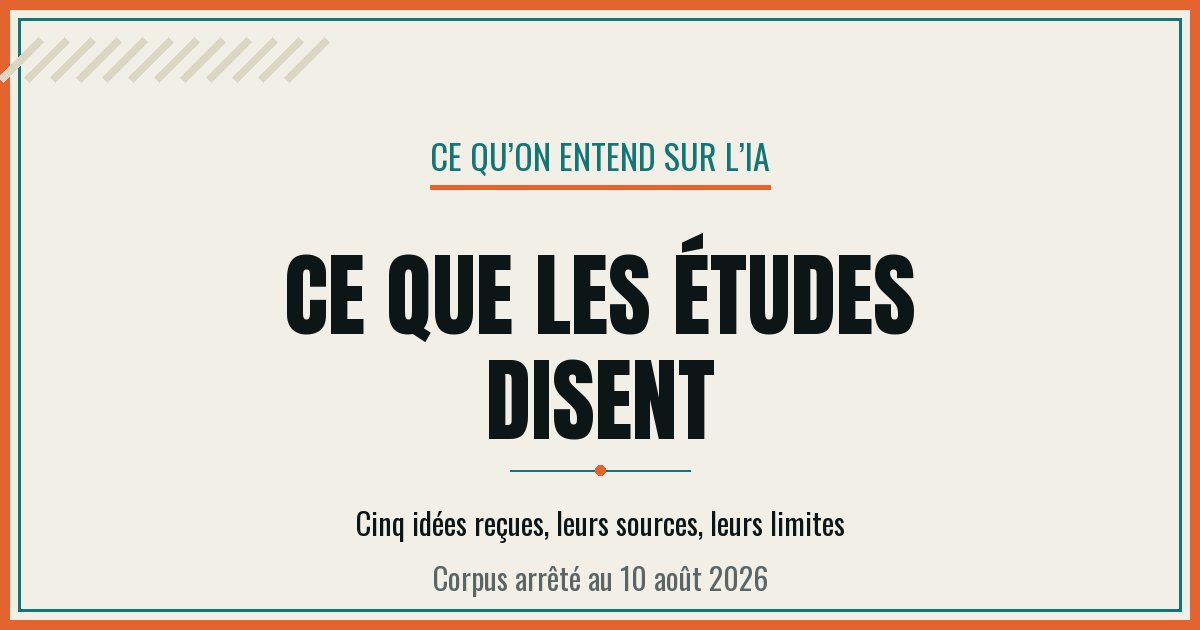
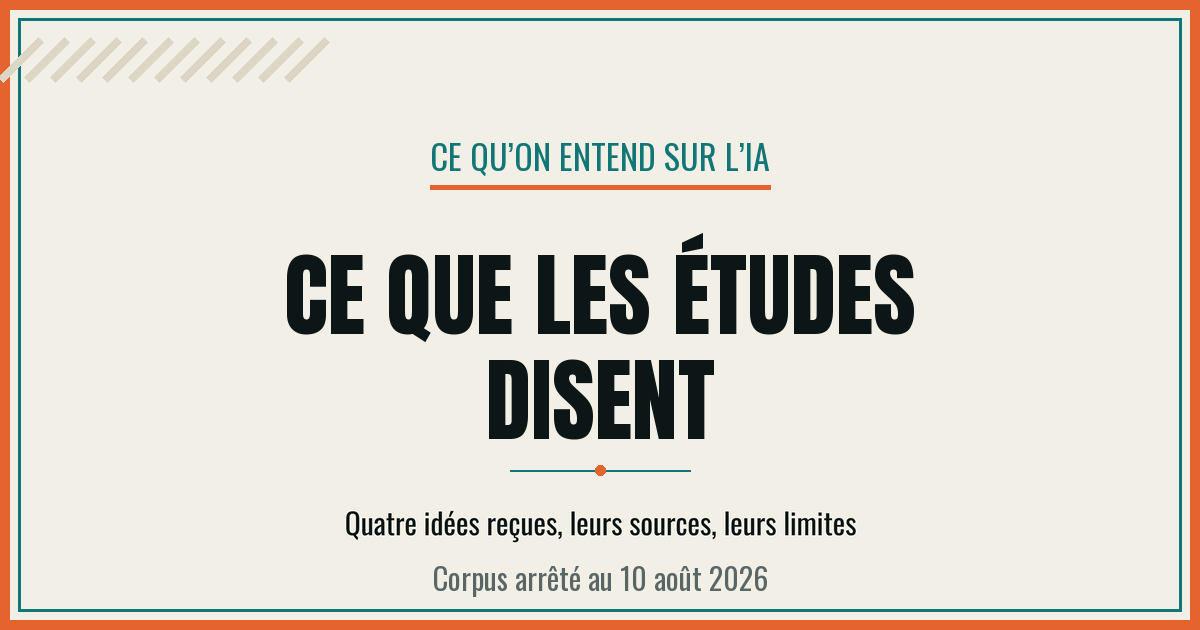
contenu: retire la carte atrophie_muscle, le site passe à cinq cartes
Cadrage, bloc noscript, descriptions et image de partage alignés sur quatre idées reçues. README : quinze sources distinctes, et non plus le compte des citations carte par carte.

Changed region(s): [[0.2775, 0.8143, 0.7092, 0.8746]]

diff --git a/index.html b/index.html
@@ -4,9 +4,9 @@
   <meta charset="UTF-8">
   <meta name="viewport" content="width=device-width, initial-scale=1.0">
   <title>Ce qu'on entend sur l'IA, ce que les études disent</title>
-  <meta name="description" content="Cinq idées reçues sur les effets de l'IA sur notre pensée, confrontées aux études disponibles, avec leurs sources et leurs limites.">
+  <meta name="description" content="Quatre idées reçues sur les effets de l'IA sur notre pensée, confrontées aux études disponibles, avec leurs sources et leurs limites.">
   <meta property="og:title" content="Ce qu'on entend sur l'IA, ce que les études disent">
-  <meta property="og:description" content="Cinq idées reçues sur les effets de l'IA sur notre pensée, confrontées aux études disponibles, avec leurs sources et leurs limites.">
+  <meta property="og:description" content="Quatre idées reçues sur les effets de l'IA sur notre pensée, confrontées aux études disponibles, avec leurs sources et leurs limites.">
   <meta property="og:image" content="assets/img/og_image.png">
   <meta property="og:type" content="website">
   <meta name="theme-color" content="#127676">
@@ -30,12 +30,11 @@
         <style>.attente { display: none; }</style>
         <section class="sans-script">
           <h1>Ce qu'on entend sur l'IA, ce que les études disent</h1>
-          <p class="cadrage">Cinq idées qui circulent sur les effets de l'IA sur notre pensée, confrontées aux études disponibles. Chaque carte s'ouvre sur ce qu'on en sait, puis sur ses sources et leurs limites.</p>
+          <p class="cadrage">Quatre idées qui circulent sur les effets de l'IA sur notre pensée, confrontées aux études disponibles. Chaque carte s'ouvre sur ce qu'on en sait, puis sur ses sources et leurs limites.</p>
           <p>Cette page a besoin de JavaScript pour déplier ses cartes. En voici le contenu en clair :</p>
           <ol class="enonces">
             <li>On entend souvent : « L'IA détruit la pensée critique »</li>
             <li>On entend souvent : « Les scanners montrent un cerveau en vacances quand on écrit avec ChatGPT »</li>
-            <li>On entend souvent : « À force de déléguer à l'IA, la pensée critique s'atrophie comme un muscle qu'on n'utilise plus »</li>
             <li>On entend souvent : « Quand on comprend techniquement comment marche l'IA, on juge mieux sa propre performance »</li>
             <li>On entend souvent : « On a dit pareil de l'écriture, de l'imprimerie et de la calculatrice »</li>
             <li>Alors, qu'est-ce qui tient ?</li>

diff --git a/README.md b/README.md
@@ -1,13 +1,13 @@
 # Ce qu'on entend sur l'IA, ce que les études disent
 
-Site d'une page qui confronte cinq idées reçues sur les effets de l'IA générative sur notre pensée à ce que les études établissent, pour un profane éduqué. Chaque carte porte une croyance ; le clic ouvre ce qu'on en sait ; un second clic ouvre les sources, avec leur état (publiée, corrigée, non contrôlée par des pairs) et leur accès. Une sixième carte, de forme distincte, porte ce qui tient.
+Site d'une page qui confronte quatre idées reçues sur les effets de l'IA générative sur notre pensée à ce que les études établissent, pour un profane éduqué. Chaque carte porte une croyance ; le clic ouvre ce qu'on en sait ; un second clic ouvre les sources, avec leur état (publiée, corrigée, non contrôlée par des pairs) et leur accès. Une cinquième carte, de forme distincte, porte ce qui tient.
 
 Double usage : lecture autonome par lien partagé, et support projeté en formation. Chaque carte a sa propre adresse, ce qui permet de pointer une carte précise depuis un support de cours.
 
 ## Comment ça marche
 
 - HTML, CSS et JavaScript natifs, sans build ni dépendance.
-- Tout le fond éditorial vit dans un seul fichier : `data/contenu.json` (six cartes, vingt sources). Le site l'affiche tel quel ; corriger le contenu ne touche jamais le code.
+- Tout le fond éditorial vit dans un seul fichier : `data/contenu.json` (cinq cartes, quinze sources). Le site l'affiche tel quel ; corriger le contenu ne touche jamais le code.
 - Aucune requête vers un domaine tiers : polices, fond et images sont servies par le site.
 - Le dépliage repose sur les balises `details` natives du HTML, donc accessible au clavier et aux lecteurs d'écran sans code supplémentaire.
 - La page fonctionne hébergée en HTTP ; l'ouverture directe du fichier ne charge pas le contenu (limitation du `fetch` local).
@@ -21,7 +21,7 @@ python3 -m http.server 8765
 
 ## D'où vient le contenu
 
-Chaque affirmation du site s'appuie sur une enquête documentaire arrêtée au 10 août 2026. Le corpus compte vingt sources citées : onze publiées sans réserve, trois corrigées, six jamais contrôlées par des pairs ; quatre adresses étaient bloquées et deux payantes. Le site affiche ces états, parce qu'une URL n'est pas une preuve de fiabilité : une étude rétractée peut rester en ligne, une adresse peut servir une version différente de celle que la presse a reprise.
+Chaque affirmation du site s'appuie sur une enquête documentaire arrêtée au 10 août 2026. Le site cite quinze sources : huit publiées sans réserve, deux corrigées, cinq jamais contrôlées par des pairs ; deux adresses étaient bloquées et une payante. Le site affiche ces états, parce qu'une URL n'est pas une preuve de fiabilité : une étude rétractée peut rester en ligne, une adresse peut servir une version différente de celle que la presse a reprise.
 
 ## Licence
 
